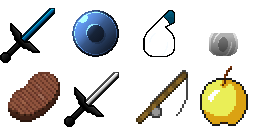
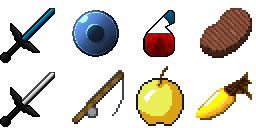
Update

diff --git a/scripts/extract-textures.js b/scripts/extract-textures.js
@@ -7,7 +7,7 @@ const KEY_TEXTURES = {
   items: [
     ['assets/minecraft/textures/items/diamond_sword.png'],
     ['assets/minecraft/textures/items/ender_pearl.png'],
-    ['assets/minecraft/textures/items/splash_potion_of_healing.png'],
+    { composite: 'potion', bottle: 'assets/minecraft/textures/items/potion_bottle_splash.png', overlay: 'assets/minecraft/textures/items/potion_overlay.png', color: [255, 0, 0] },
     ['assets/minecraft/textures/items/steak.png', 'assets/minecraft/textures/items/beef_cooked.png'],
     ['assets/minecraft/textures/items/iron_sword.png'],
     ['assets/minecraft/textures/items/fishing_rod_uncast.png'],
@@ -90,6 +90,43 @@ async function extractPack(zipPath) {
 
   for (const [category, pathsArray] of Object.entries(KEY_TEXTURES)) {
     for (const alternatives of pathsArray) {
+      // Handle composite textures (like potions)
+      if (alternatives.composite === 'potion') {
+        const filename = 'potion_healing.png';
+        const bottleEntry = zip.getEntry(alternatives.bottle);
+        const overlayEntry = zip.getEntry(alternatives.overlay);
+
+        if (bottleEntry && overlayEntry) {
+          const bottleBuffer = bottleEntry.getData();
+          const overlayBuffer = overlayEntry.getData();
+          const [r, g, b] = alternatives.color;
+
+          // Tint overlay with color and composite onto bottle
+          const tintedOverlay = await sharp(overlayBuffer)
+            .ensureAlpha()
+            .raw()
+            .toBuffer({ resolveWithObject: true });
+
+          const pixels = tintedOverlay.data;
+          for (let i = 0; i < pixels.length; i += 4) {
+            if (pixels[i + 3] > 0) {
+              pixels[i] = Math.round(pixels[i] * r / 255);
+              pixels[i + 1] = Math.round(pixels[i + 1] * g / 255);
+              pixels[i + 2] = Math.round(pixels[i + 2] * b / 255);
+            }
+          }
+
+          const tinted = await sharp(pixels, { raw: { width: tintedOverlay.info.width, height: tintedOverlay.info.height, channels: 4 } }).png().toBuffer();
+
+          await sharp(bottleBuffer)
+            .composite([{ input: tinted, blend: 'over' }])
+            .toFile(path.join(outputDir, filename));
+
+          extracted[category].push(filename);
+        }
+        continue;
+      }
+
       let entry = null;
       const filename = path.basename(alternatives[0]);
       for (const alt of alternatives) {
